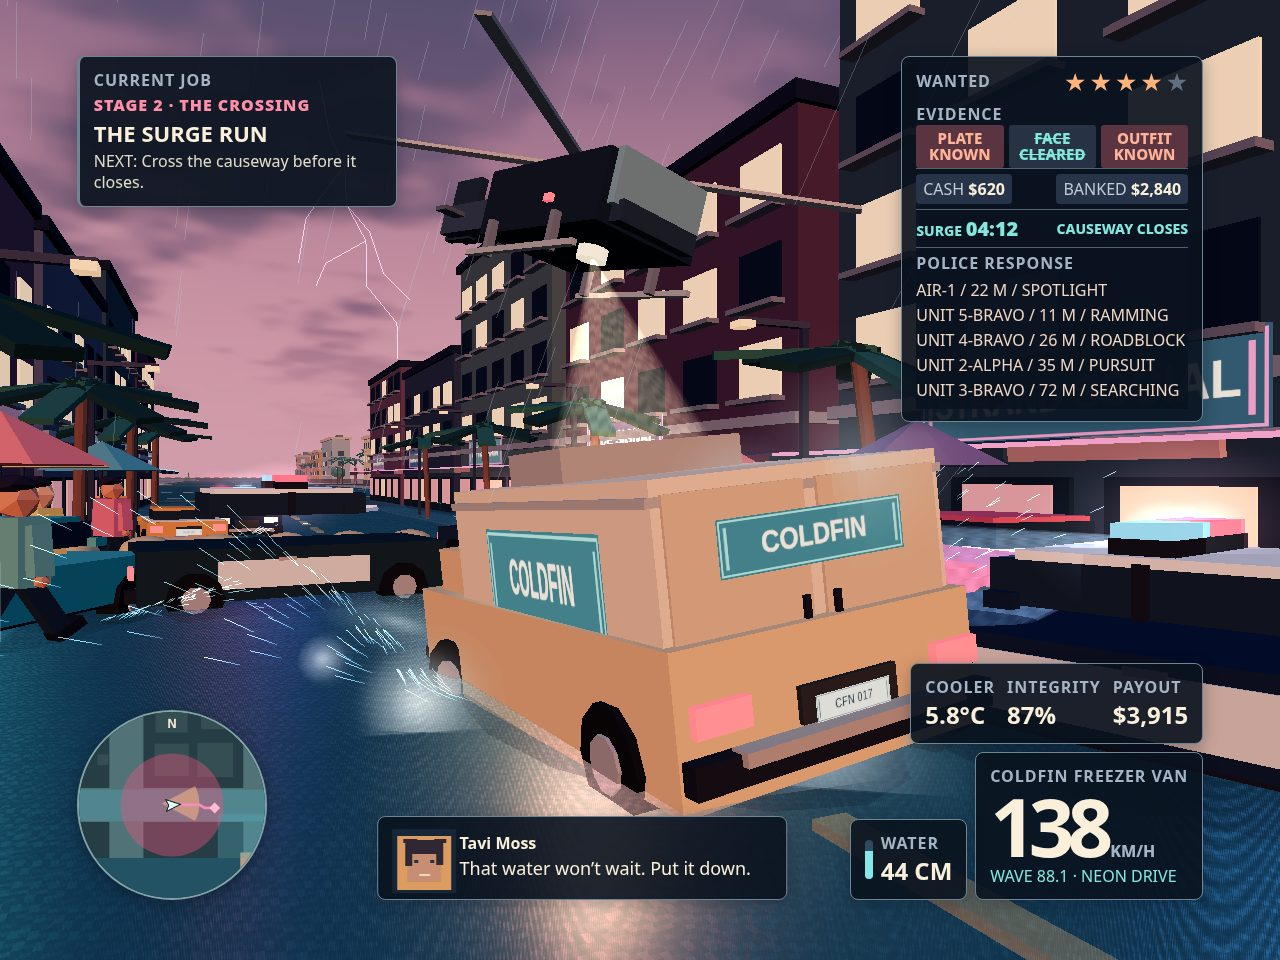
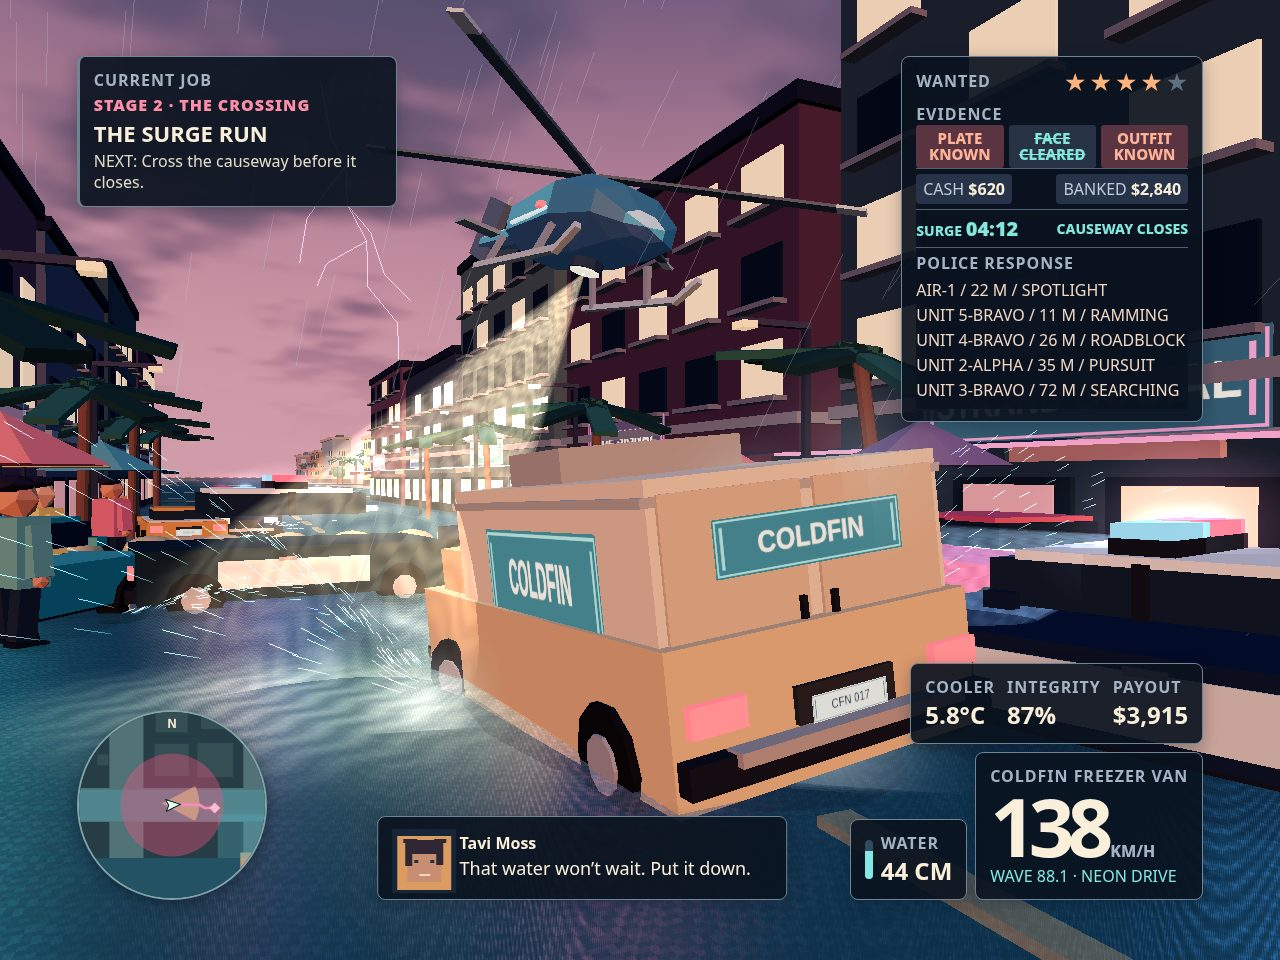
Make the High Water cover spotlight readable

diff --git a/game/src/police-tactics.js b/game/src/police-tactics.js
@@ -6,7 +6,7 @@ import { lineOfSight } from './wanted.js';
 export function trackingLight(scene, color, intensity, reach) {
   const material = new T.ShaderMaterial({
     transparent:true, depthWrite:false, side:T.DoubleSide, blending:T.AdditiveBlending,
-    uniforms:{ tint:{value:new T.Color(color)} },
+    uniforms:{ tint:{value:new T.Color(color)}, strength:{value:.30} },
     vertexShader:`
       varying vec2 surface;
       varying vec3 normalView, eye;
@@ -19,13 +19,14 @@ export function trackingLight(scene, color, intensity, reach) {
       }`,
     fragmentShader:`
       uniform vec3 tint;
+      uniform float strength;
       varying vec2 surface;
       varying vec3 normalView, eye;
       void main() {
         float soft=smoothstep(.01,.48,abs(dot(normalize(eye),normalize(normalView))));
         float falloff=smoothstep(0.,.12,surface.y)*(.56+.44*surface.y);
         float rain=.86+.14*sin(surface.y*156.+sin(surface.x*74.)*3.);
-        gl_FragColor=vec4(tint,.30*soft*falloff*rain);
+        gl_FragColor=vec4(tint,strength*soft*falloff*rain);
         #include <colorspace_fragment>
       }`,
   });
@@ -35,41 +36,83 @@ export function trackingLight(scene, color, intensity, reach) {
   const axis = new T.Vector3(0,1,0), direction = new T.Vector3();
   scene.add(volume,light,light.target);
   return {
-    aim(origin,target,radius) {
+    aim(origin,target,radius,strength=.30) {
       direction.subVectors(origin,target);
       const length=direction.length();
       volume.position.copy(origin).lerp(target,.5);
       volume.quaternion.setFromUnitVectors(axis,direction.normalize());
       volume.scale.set(radius,length,radius);
+      material.uniforms.strength.value=strength;
       light.position.copy(origin); light.target.position.copy(target);
     },
     hide() { volume.visible=false; light.visible=false; },
   };
 }
 
-function makeAirUnit(scene) {
-  const group=new T.Group(), rotor=new T.Group();
-  part(group,5.9,3.25,9.5,0,0,1,'#263749');
-  part(group,5.1,2.5,2,0,.48,5.2,'#77a8b1');
-  part(group,4.5,.95,2.45,0,-1,5.3,'#31495a');
-  part(group,1.8,1.65,10.5,0,.57,-7,'#40576a');
-  part(group,.46,3.65,2.8,0,1.43,-11.4,'#2e4355');
-  part(group,4.3,.24,1.18,0,.7,-10.3,'#596c77');
-  for(const side of [-1,1]) {
-    part(group,.3,.28,8.8,side*3.5,-2.8,1,'#9cb1b4');
-    for(const z of [-2.3,3]) part(group,.42,1.8,.38,side*3.12,-2,z,'#748793');
-    part(group,.35,.35,.54,side*3.02,-.35,2,side<0?'#fb5067':'#79f8cc',box,true);
+function airframe(group) {
+  // Cross sections from the tail to the nose, with a separate cockpit and belly.
+  const profile=[[-12.8,.68,0,0],[-11.8,.65,.36,.49],[-5.2,.46,.76,.66],
+    [-3.1,.1,2.55,1.63],[2.6,.1,3.16,2.03],[5.45,-.18,2.43,1.36],
+    [6.42,-.62,1.17,.63],[6.63,-.66,0,0]];
+  const geometry=new T.BufferGeometry(), vertices=[];
+  const panels=[[],[],[],[]];
+  for(const [z,y,width,height] of profile)for(let i=0;i<8;i++){
+    const angle=(i+.5)*Math.PI/4;
+    vertices.push(Math.cos(angle)*width,y+Math.sin(angle)*height,z);
   }
-  part(group,1.55,.85,1.52,0,-1.82,2,'#ffe4b3',drum,true);
-  rotor.position.y=2.48;
-  part(rotor,27,.17,.66,0,0,0,'#a9b7ba');
-  part(rotor,.66,.17,27,0,0,0,'#83979f');
+  for(let ring=0;ring<profile.length-1;ring++)for(let side=0;side<8;side++){
+    const a=ring*8+side,b=ring*8+(side+1)%8;
+    const belly=side>=4&&side<=6, windshield=(ring===4||ring===5)&&!belly;
+    const trim=side===3||side===7;
+    const surface=belly?2:windshield?3:trim?1:0;
+    panels[surface].push(a,b,a+8,b,b+8,a+8);
+  }
+  const indices=[];
+  panels.forEach((panel,surface)=>{
+    geometry.addGroup(indices.length,panel.length,surface);
+    indices.push(...panel);
+  });
+  geometry.setAttribute('position',new T.Float32BufferAttribute(vertices,3));
+  geometry.setIndex(indices);
+  geometry.computeVertexNormals();
+  const materials=['#9fbecb','#498fa4','#344d68','#37647b'].map(color=>
+    new T.MeshStandardMaterial({color,emissive:color,emissiveIntensity:.36,roughness:.63,flatShading:true}));
+  group.add(new T.Mesh(geometry,materials));
+}
+
+function makeAirUnit(scene) {
+  const group=new T.Group(), rotor=new T.Group(), tailRotor=new T.Group();
+  airframe(group);
+  part(group,.48,3.65,2.8,0,1.43,-11.4,'#5e7a91').rotation.x=.31;
+  part(group,5.5,.24,1.42,0,.72,-9.1,'#87a7b5');
+  tailRotor.position.set(.41,1.77,-11.5);
+  part(tailRotor,.14,4.1,.26,0,0,0,'#b2cad3');
+  part(tailRotor,.14,.26,4.1,0,0,0,'#89a9b6');
+  group.add(tailRotor);
+  for(const side of [-1,1]) {
+    part(group,.3,.3,8.8,side*3.27,-2.75,1,'#adcad3');
+    part(group,.3,.3,1.85,side*3.27,-2.37,5.99,'#adcad3').rotation.x=-.54;
+    for(const z of [-2.3,3]) part(group,.28,1.8,.31,side*2.95,-1.97,z,'#8aa3b3').rotation.z=side*.28;
+    part(group,.16,.16,4.45,side*2.76,-.38,.3,'#b3e3ea',box,true).rotation.y=side*.07;
+    part(group,.34,.28,.48,side*3.01,-.2,2,side<0?'#fb5067':'#79f8cc',box,true);
+  }
+  part(group,1.65,.7,1.65,0,-1.9,2,'#385269',drum);
+  part(group,1.45,.2,1.45,0,-2.25,2,'#fff0ca',drum,true);
+  part(group,.46,1.17,.46,0,2.13,.26,'#7898ab',drum);
+  rotor.position.set(0,2.72,.26);
+  for(let i=0;i<4;i++){
+    const blade=new T.Group(); blade.rotation.y=i*Math.PI/2;
+    part(blade,.68,.14,12.9,0,0,6.9,'#627b8b');
+    part(blade,.69,.15,1.34,0,0,12.84,'#c6dbe1');
+    rotor.add(blade);
+  }
   group.add(rotor); scene.add(group);
   const spotlight=trackingLight(scene,'#ffe6b0',1150,155);
-  return {group,rotor,spotlight,aim(x,y,z) {
+  return {group,rotor,spotlight,aim(x,y,z,strength) {
     group.updateWorldMatrix(true,false);
-    const origin=group.localToWorld(new T.Vector3(0,-2.02,2));
-    spotlight.aim(origin,new T.Vector3(x,y,z),origin.y*.27);
+    tailRotor.rotation.x=rotor.rotation.y*2.8;
+    const origin=group.localToWorld(new T.Vector3(0,-2.35,2));
+    spotlight.aim(origin,new T.Vector3(x,y,z),origin.y*.27,strength);
   }};
 }
 

diff --git a/game/src/shots.js b/game/src/shots.js
@@ -5,7 +5,7 @@ import { JOBS, startJob, tickMission } from './mission-director.js';
 import { LOCATIONS } from './config.js';
 import { drawPortrait } from './portraits.js';
 import { trackingLight } from './police-tactics.js';
-import { fitPoliceGlare, marketSet, strandSet, stormBolt, wetSurface } from './shot-set.js';
+import { fitPoliceGlare, marketSet, spotlightPool, strandSet, stormBolt, wetSurface } from './shot-set.js';
 
 const $=id=>document.getElementById(id);
 const tone=(color,opacity)=>new T.MeshBasicMaterial({color,transparent:true,opacity,depthWrite:false,side:T.DoubleSide});
@@ -219,6 +219,7 @@ export function setupShot(name,state,{hud,map}) {
     lightsAndDialog(state,'Tavi Moss','That water won’t wait. Put it down.');
     strandSet(state);
     shot.bolt=stormBolt(state.scene);
+    shot.airPool=spotlightPool(state.scene);
     shot.pursuitLight=trackingLight(state.scene,'#a8d9ff',16,42);
     shot.water=wetSurface(state.scene,1324,.705,2040,205,43,[
       [1291,2031,3,38,'#ef466f'],[1293,2033,3,32,'#536eff'],
@@ -335,10 +336,12 @@ export function setupShot(name,state,{hud,map}) {
       const air=units.find(unit=>!unit.vehicle);
       if(air){
         air.x=x+21; air.z=z+6; air.distance=22;
-        air.group.position.set(air.x,19,air.z); air.group.lookAt(x,16,z+12);
-        air.group.rotateZ(-.18); air.rotor.rotation.y+=dt*16;
-        // End the air unit's real light on the flood beneath COLDFIN.
-        air.aim(x+1,.72,z+Math.sin(t*2)*1.2);
+        air.group.position.set(air.x,18.4,air.z); air.group.lookAt(x,16,z+9);
+        air.group.rotateZ(-.23); air.rotor.rotation.y+=dt*16;
+        // Sweep the flooded lane just off the van's left flank.
+        const poolX=x+2.5, poolZ=z-10+Math.sin(t*1.4)*1.4;
+        air.aim(poolX,.73,poolZ,.46);
+        shot.airPool(poolX,.74,poolZ,t);
       }
       shot.pursuitLight.aim(new T.Vector3(x-8,4.85,z+9),new T.Vector3(x,2,z+1),3.5);
       shot.water.time.value=t;

diff --git a/game/src/shot-set.js b/game/src/shot-set.js
@@ -53,6 +53,29 @@ export function wetSurface(scene, x, y, z, width, depth, sources, wind = .55) {
   return material.uniforms;
 }
 
+export function spotlightPool(scene) {
+  const material=new T.ShaderMaterial({
+    transparent:true, depthWrite:false, blending:T.AdditiveBlending,
+    uniforms:{time:{value:0}},
+    vertexShader:`
+      varying vec2 surface;
+      void main(){surface=uv*2.-1.;gl_Position=projectionMatrix*modelViewMatrix*vec4(position,1.);}`,
+    fragmentShader:`
+      varying vec2 surface;
+      uniform float time;
+      void main(){
+        float radius=length(surface);
+        float rings=.79+.21*sin(surface.y*51.+sin(surface.x*21.)+time*7.);
+        float light=(1.-smoothstep(.16,1.,radius))*rings;
+        gl_FragColor=vec4(.98,.79,.49,light*.37);
+        #include <colorspace_fragment>
+      }`,
+  });
+  const patch=new T.Mesh(new T.PlaneGeometry(12,18),material);
+  patch.rotation.set(-Math.PI/2,0,-.91); patch.renderOrder=3; scene.add(patch);
+  return (x,y,z,time)=>{patch.position.set(x,y,z);material.uniforms.time.value=time;};
+}
+
 export function strandSet(state) {
   const {scene,city}=state, batch=makeBatch(scene), add=batch.add, rnd=seeded(17);
   const faces=['#374660','#66536b','#53617b','#395464','#55425d','#526c73'];

diff --git a/STAGING-VERIFICATION.md b/STAGING-VERIFICATION.md
@@ -30,3 +30,9 @@ The kit CLI help was read before checking. Check the committed GitHub-repository
 - T4: `01a1f18f-d09d-7371-b505-38fa8b71b829`
 
 No submission, recording closure or comparison against live competitor sheets was performed in this pass.
+
+## Cover spotlight revision
+
+The cover now uses a shaped helicopter hull with cockpit glazing, colored trim and a tail rotor. The spotlight sweeps the open lane beside COLDFIN, where the beam and its reflection are visible together. The difference is visible when the old and new covers are scaled to 640 × 480.
+
+Playwright MCP captured the new cover directly at 1280 × 960 and JPEG quality 82 (225888 bytes). All four shot routes rendered and free play accepted keyboard movement. No browser errors or external requests were logged. Two package builds matched byte for byte. The dossier is 1140594 bytes and includes the full 161856-byte source text and outline.
